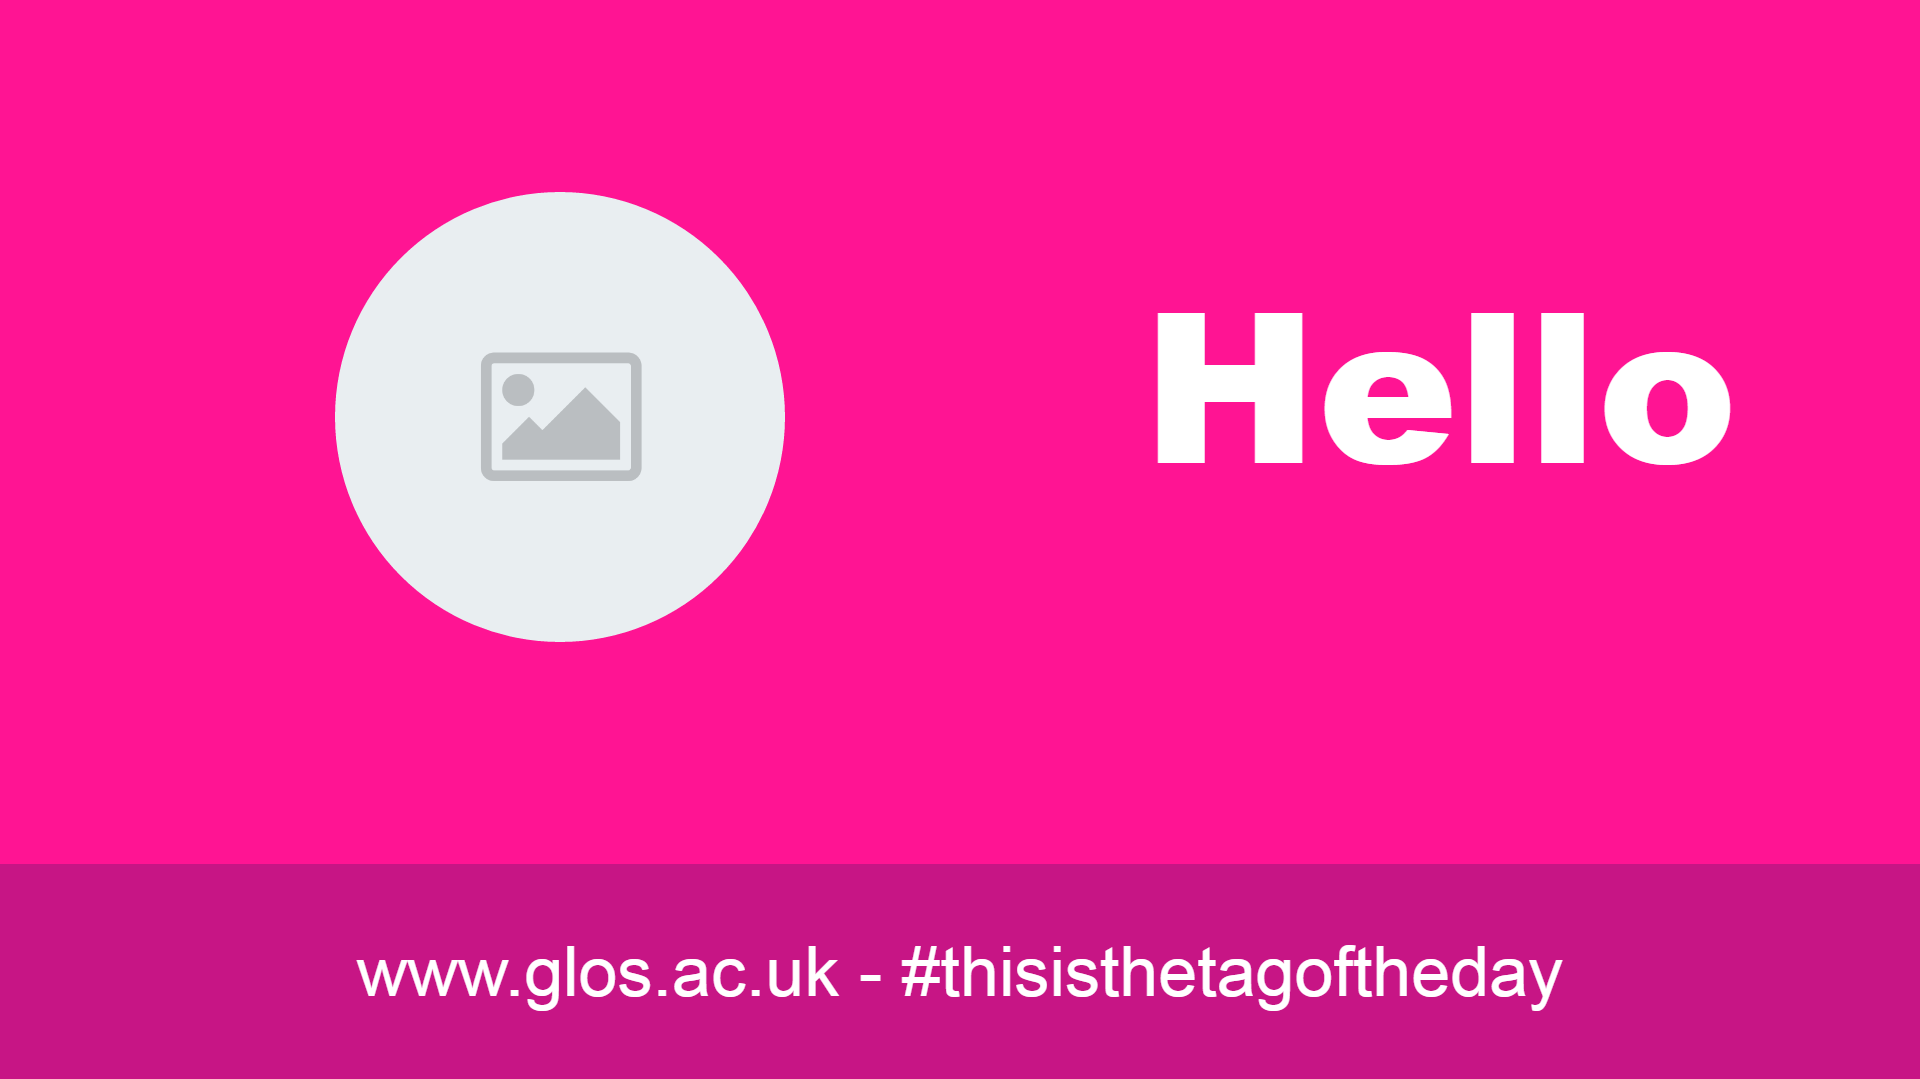
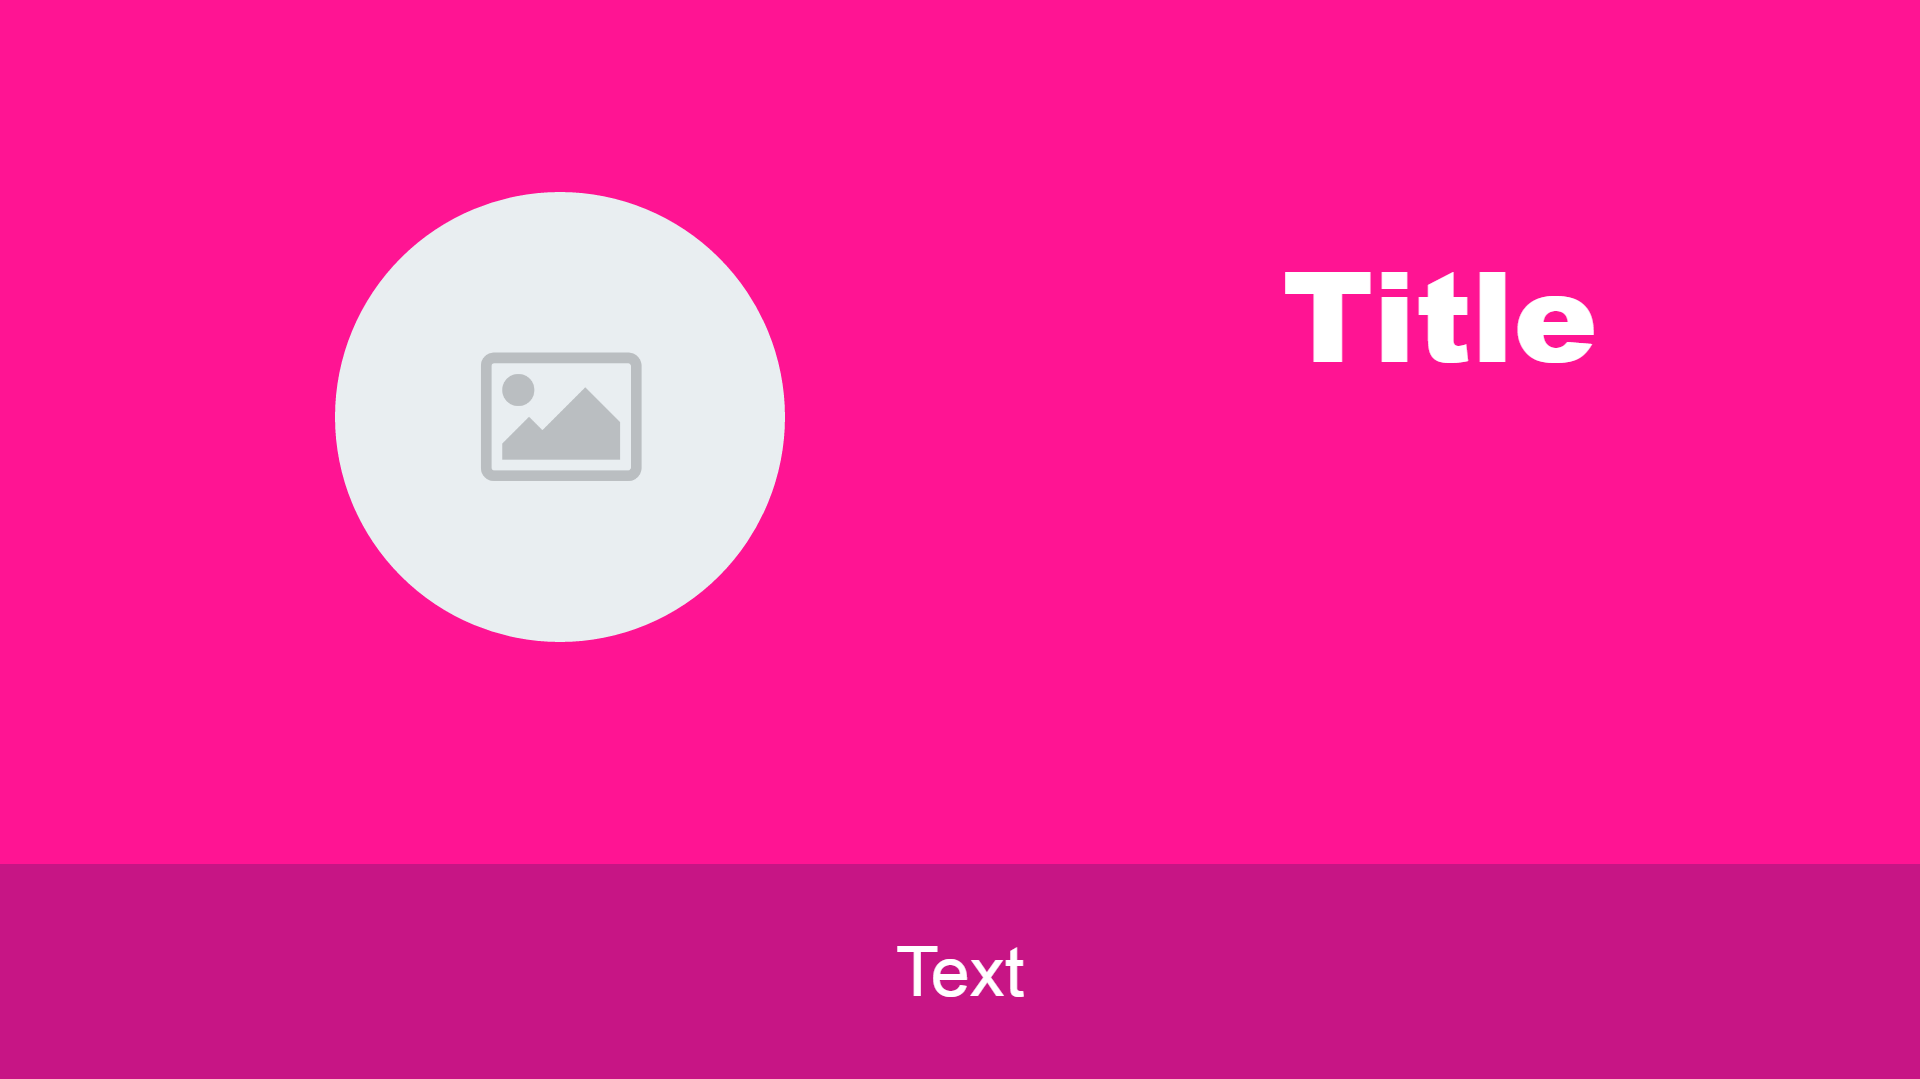
Updated all the thumbnails

Changed region(s): [[0.5938, 0.2447, 0.9062, 0.4282], [0.4688, 0.8563, 0.8125, 0.9481], [0.1875, 0.8869, 0.4375, 0.9481]]

diff --git a/templates/short_info-templ/template.html b/templates/short_info-templ/template.html
@@ -4,13 +4,13 @@
             <img src="assets/default-placeholder.png" class="img-responsive img-circle">
         </div>
         <div class="content col-md-offset-1 col-md-6">
-            <h1 id="title">Hello</h1>
+            <h1 id="title">Title</h1>
         </div>
     </div>
 
     <div class="bottom-part">
         <div class="content">
-            <div class="col-md-offset-1 col-md-10" id="text">www.glos.ac.uk - #thisisthetagoftheday</div>
+            <div class="col-md-offset-1 col-md-10" id="text">Text</div>
         </div>
     </div>
 </div>

diff --git a/templates/image_overlay-templ/template.html b/templates/image_overlay-templ/template.html
@@ -3,8 +3,8 @@
         <img src="assets/default-placeholder.png"/>
     </div>
     <div id="textContainer">
-        <h2 id="title">Overlay</h2>
-        <div id="text">Text overlay</div>
+        <h2 id="title">Title</h2>
+        <div id="text">Text</div>
     </div>
     <div class="colorContainer" id="color3"></div>
     <div class="colorContainer" id="color2"></div>

diff --git a/templates/color_title_banner-templ/style.css b/templates/color_title_banner-templ/style.css
@@ -22,11 +22,11 @@
 .color-title-banner-template h1 {
     margin: 0;
     padding-top: 10px;
-    font-size: 100px;
+    font-size: 7em;
 }
 
-.color-title-banner-template p {
-    font-size: 30px;
+.color-title-banner-template div {
+    font-size: 5em;
 }
 
 .color-title-banner-template .ellipsis {

diff --git a/templates/fullscreen_banner-templ/template.html b/templates/fullscreen_banner-templ/template.html
@@ -1,6 +1,6 @@
 <div class="fullscreen-banner-template">
     <div class="banner"><h1 id="title">BANNER</h1></div>
     <div class="fullscreen" id="imageWrapper">
-        <img src="" alt="image">
+        <img src="assets/default-placeholder.png" alt="image">
     </div>
 </div>

diff --git a/templates/color_title_banner-templ/template.html b/templates/color_title_banner-templ/template.html
@@ -1,7 +1,7 @@
 <div class="color-title-banner-template container-fluid">
     <main class="main ellipsis">
-        <h1> Hello </h1>
-        <p> text </p>
+        <h1 id="title">Title</h1>
+        <div id="text">Text</div>
     </main>
     <footer></footer>
 </div>

diff --git a/templates/fullscreen-templ/template.html b/templates/fullscreen-templ/template.html
@@ -1,5 +1,5 @@
 <div class="fullscreen-template">
     <div class="fullscreen" id="imageWrapper">
-        <img src="" alt="image">
+        <img src="assets/default-placeholder.png" alt="image">
     </div>
 </div>

diff --git a/templates/title_only-templ/template.html b/templates/title_only-templ/template.html
@@ -1,6 +1,6 @@
 <div class="title-only-template">
     <div id="content">
         <h1 id="title">Title</h1>
-        <h3 id="text">Subtitle</h3>
+        <h3 id="text">Text</h3>
     </div>
 </div>
